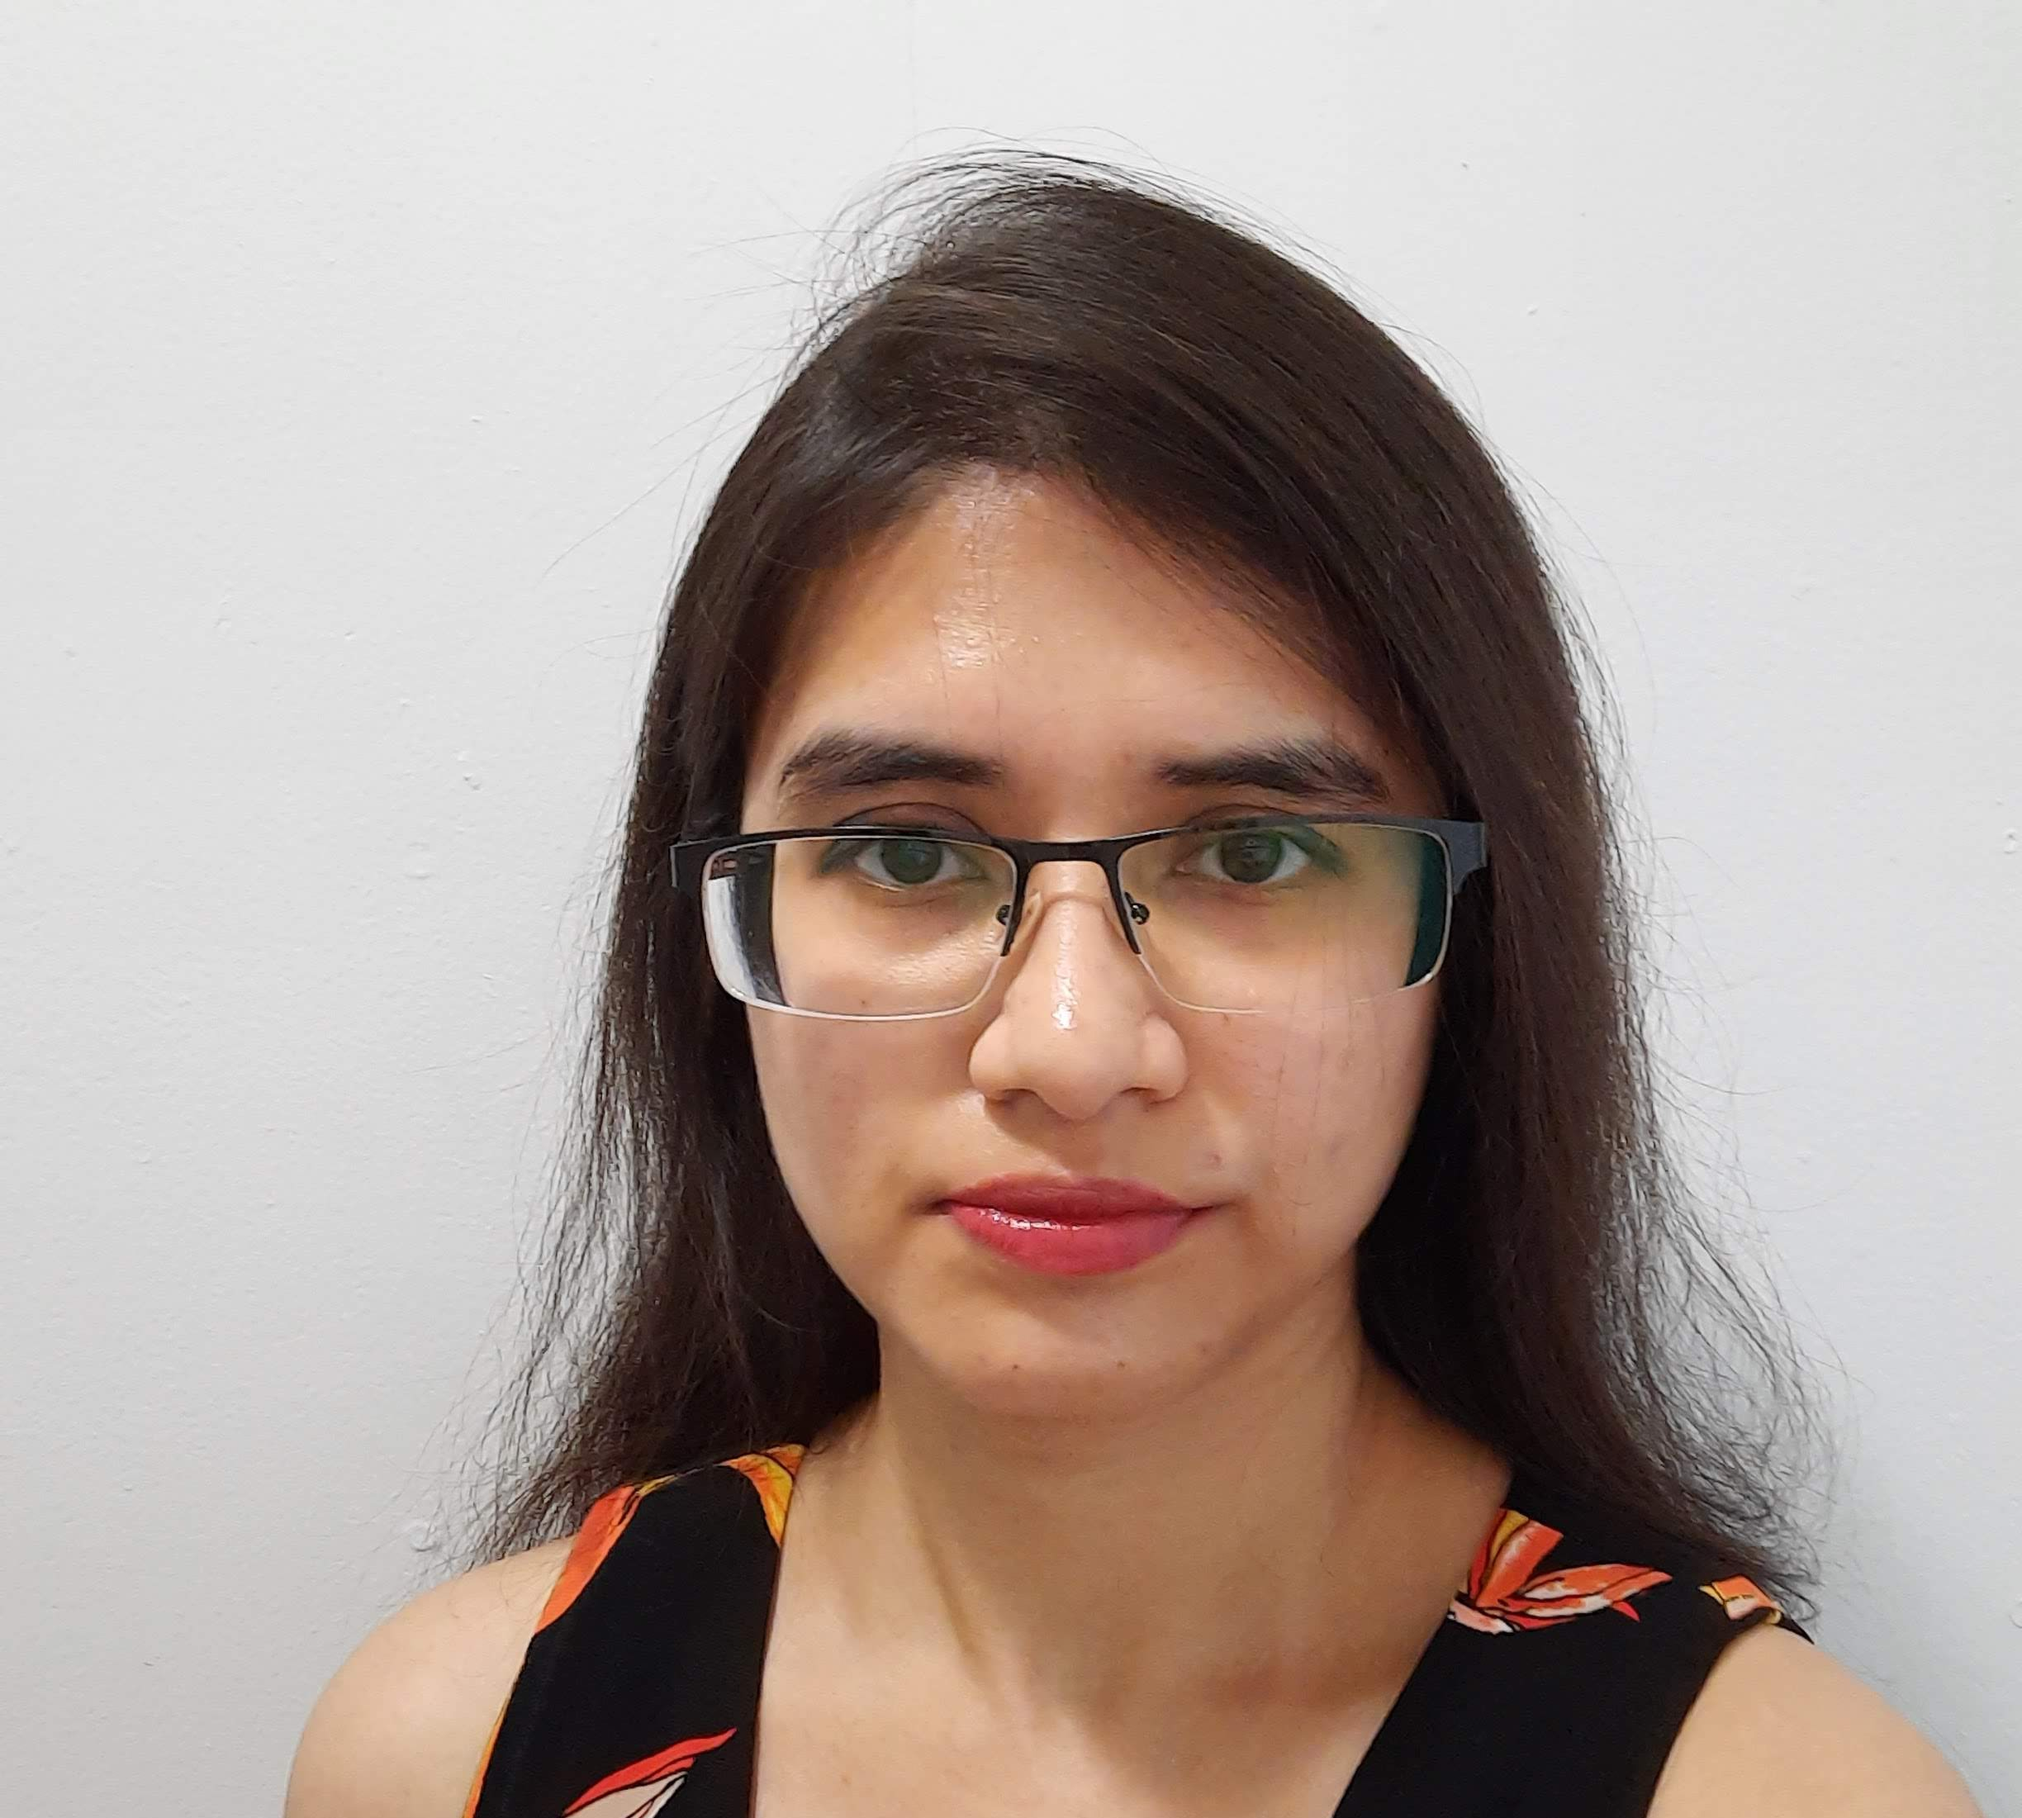
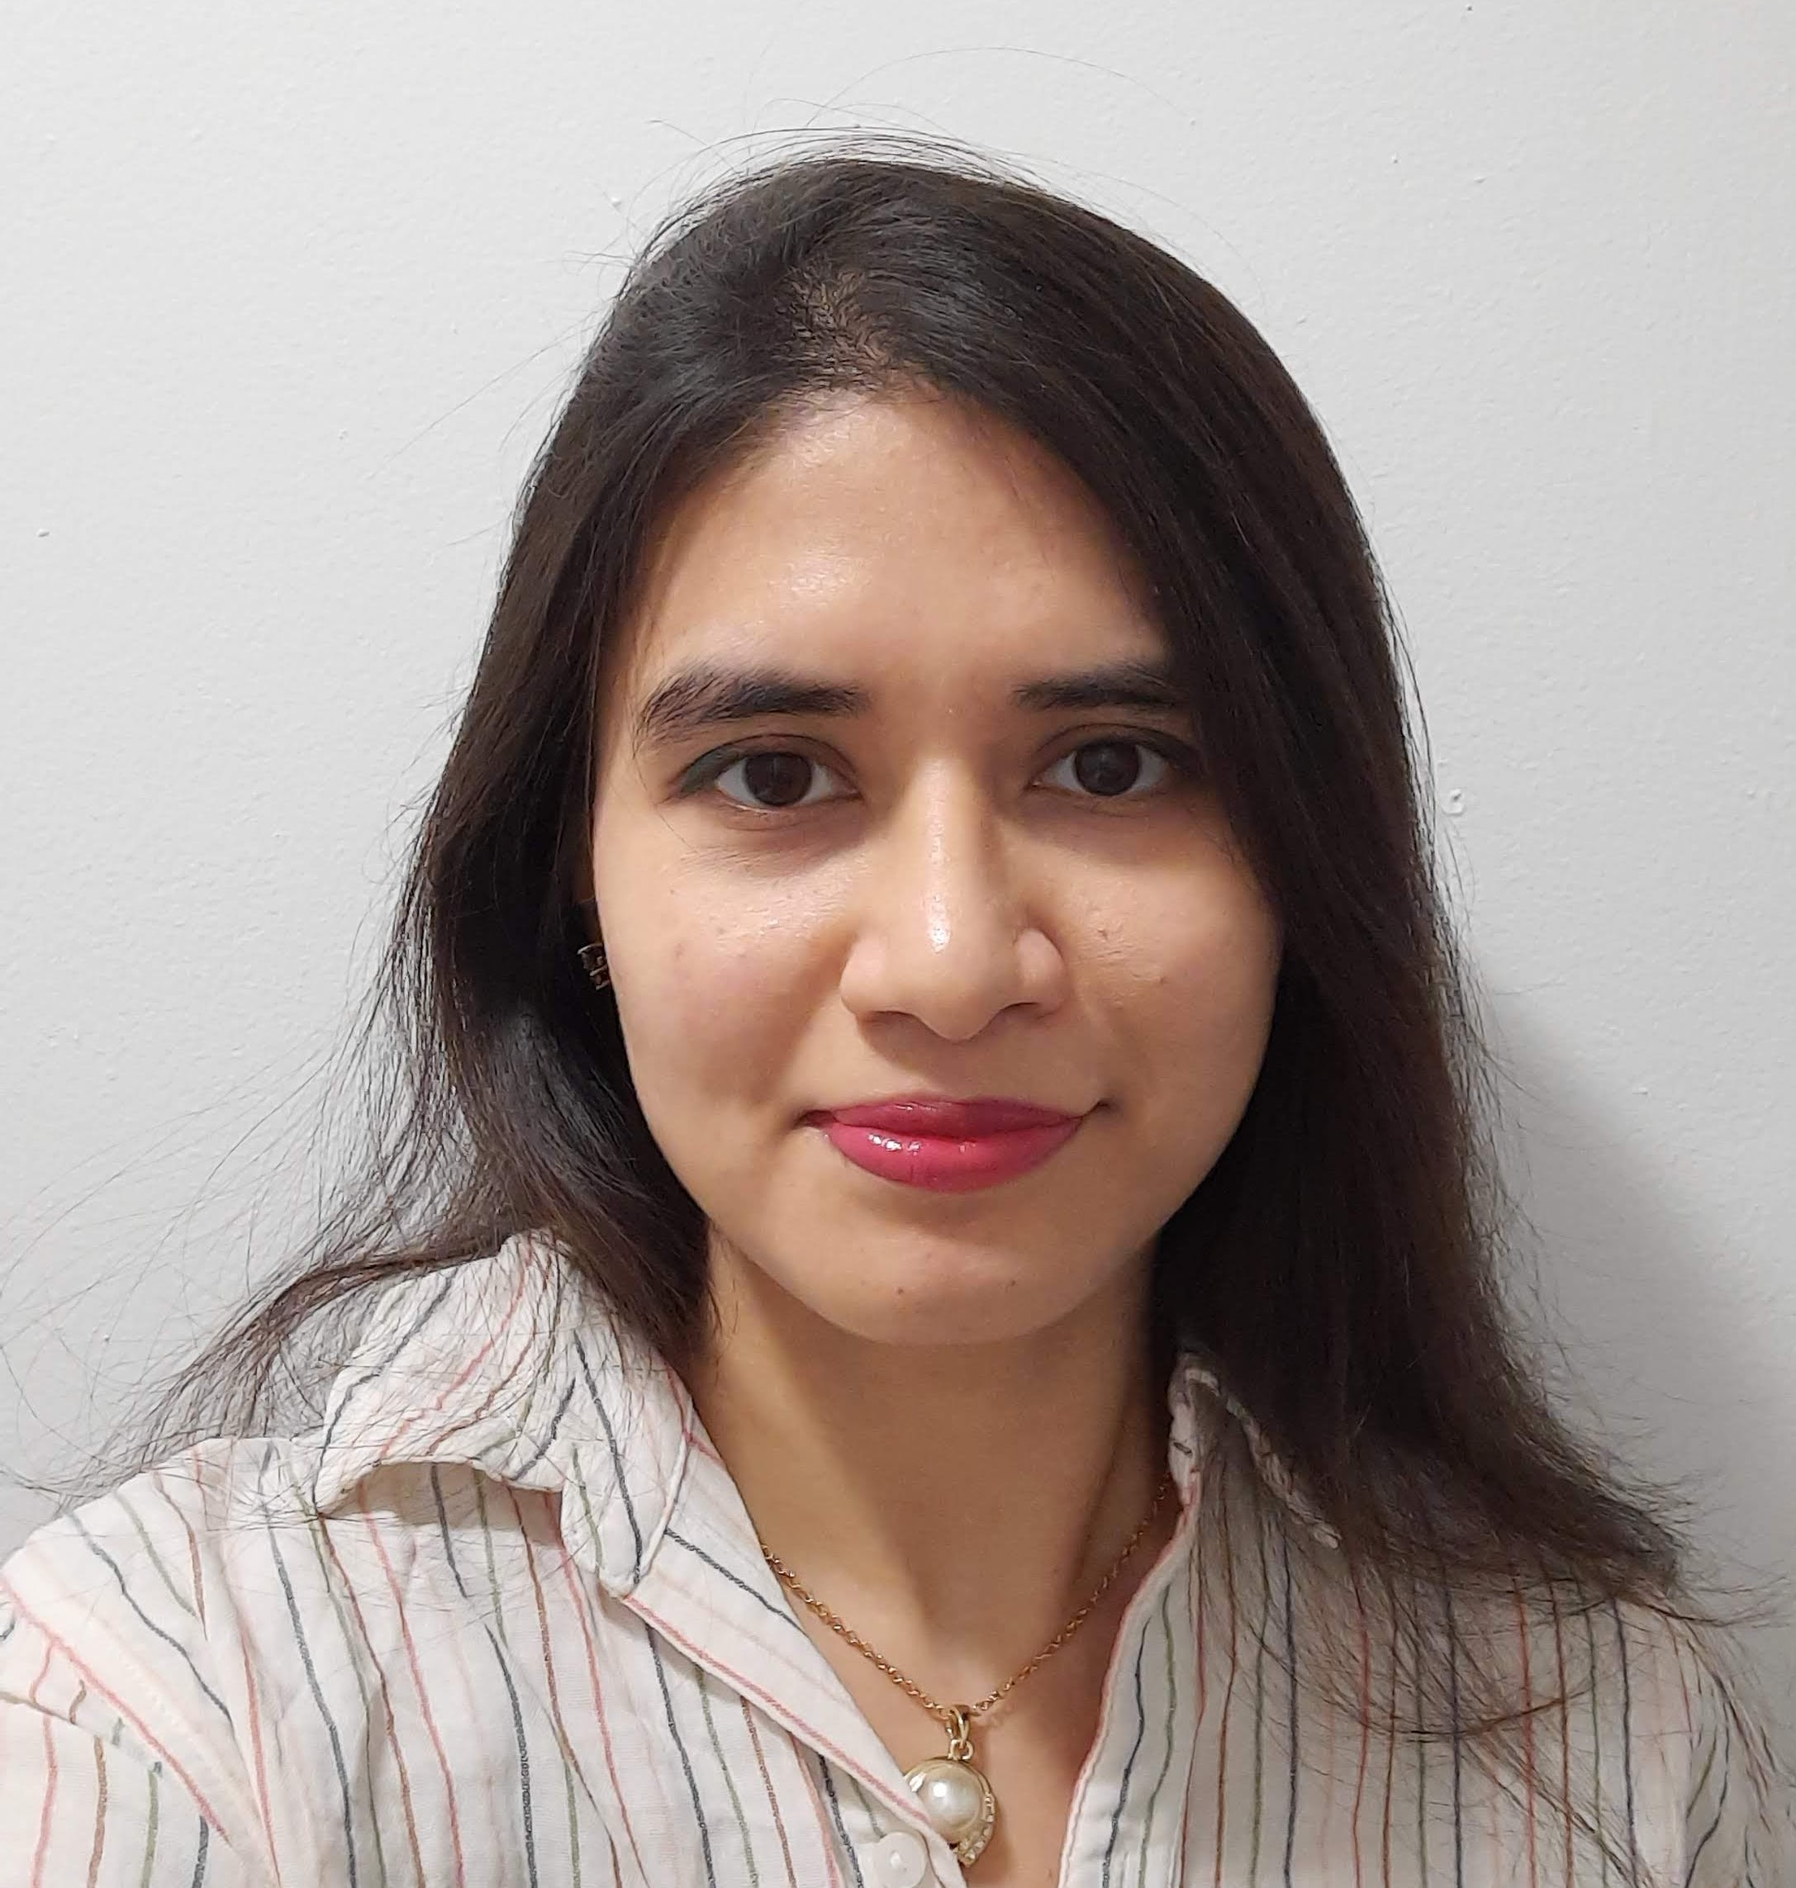
Headshot changed

diff --git a/index.html b/index.html
@@ -60,7 +60,7 @@
 									Physics</a> in Sept 2023. </p>
 								<p>I have a keen interest in Fundamental Physics, such as Theoretical Particle Physics and String Theory, that aims at understanding 
 									the origin of our universe and space-time, as well as a passion to understand and enhance the science behind Artificial 
-									Intelligence in every possible way -- via Physics, Mathematics and Neuroscience. As part of my dissertation, I have worked on 
+									Intelligence in every possible way -- via Physics, Mathematics and Neuroscience. As part of my PhD dissertation, I have worked on 
 									establishing a concrete foundational connection between Quantum Field Theory, the backbone of Theoretical Particle Physics, and 
 									Neural Networks, the structural base of Deep Learning. This correspondence is a first of its kind, and through this, I have been 
 									able to enrich the science of Neural Networks / Machine Learning using the mathematics of theoretical Particle Physics. 
